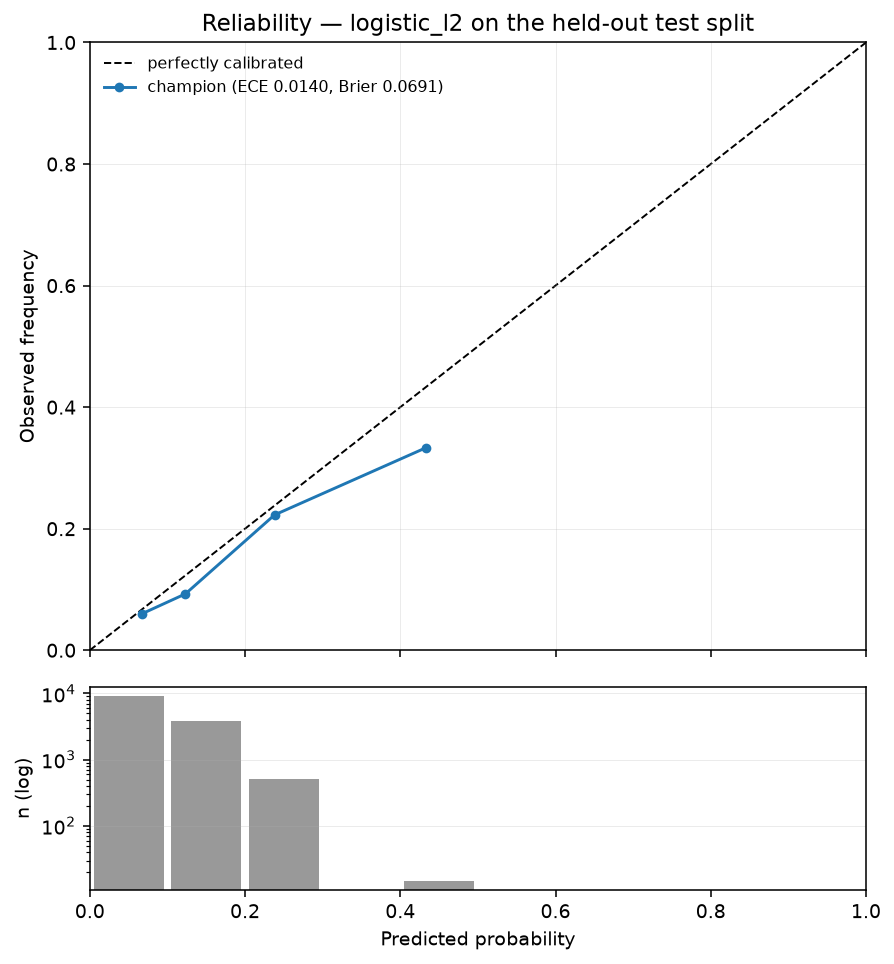
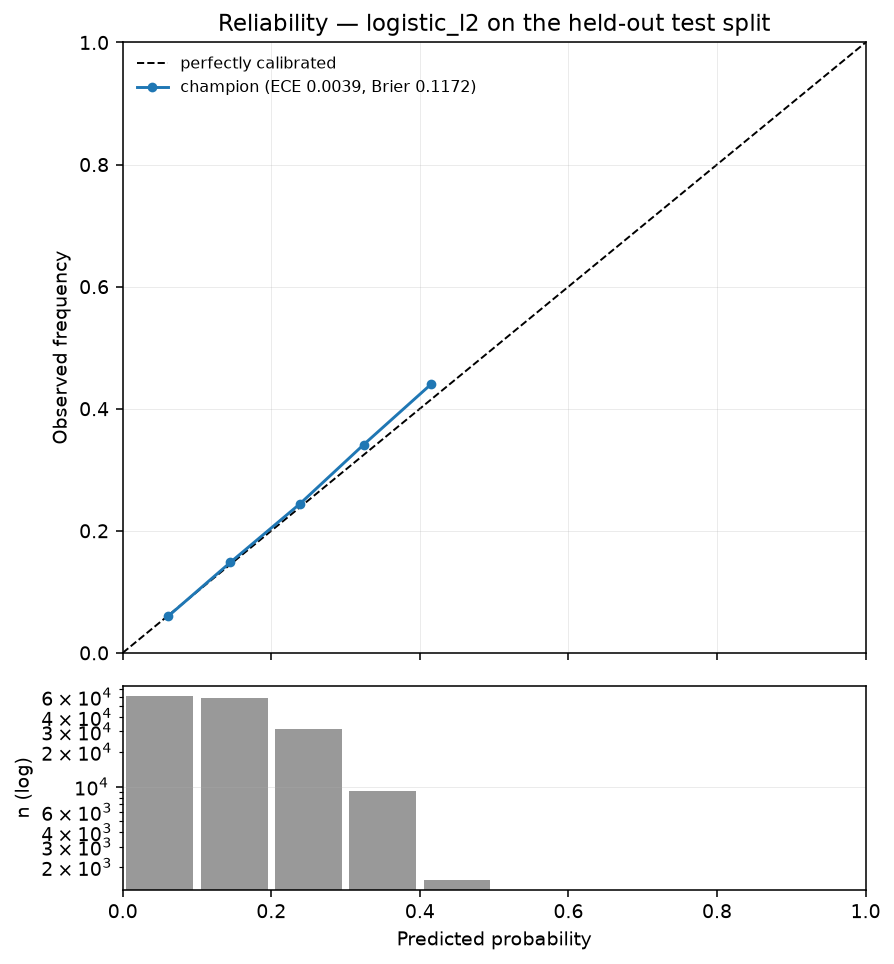
fix(models): every artifact was stamped with the PREVIOUS run's contract
Caught by running the deployment chain end to end rather than trusting it. The
container pulled the credit model from Hugging Face, reported itself ready,
and served decision_threshold 0.10106382978723404 with feature schema
06f5f0b873ca95f6 - the MEDICAL values, against a credit model tuned to 0.207.

Root cause, and it is an ordering bug with a long fuse:

  train.py:321   registry.save_local_fallback(champion_model)
                   -> write_artifact_metadata() READS reports/training_summary.json
  train.py:389   training_summary.json is WRITTEN

The artifact's contract was copied from the summary of the PREVIOUS training
run, because this run's summary does not exist yet. Every retrain would have
shipped a model carrying its predecessor's operating point, and nothing would
have complained.

It only became visible because the domain changed and the stale numbers were
obviously from another problem. Had the domains matched, the threshold would
merely have been slightly wrong - a model served at last month's operating
point - and invisible. This is the sixth instance of this bug class in this
project and the first that could not be seen by reading the output.

Fixed structurally rather than by reordering two lines, which a later refactor
could silently undo: save_local_fallback now takes the contract as an
argument, handed over by the caller that just trained the model. Reading the
file survives only as a fallback for callers with nothing to hand, and it
[…]

diff --git a/src/mlservice/models/registry.py b/src/mlservice/models/registry.py
@@ -191,7 +191,9 @@ def current_version(name: str, alias: str) -> str | None:
         return None
 
 
-def save_local_fallback(pipeline: Any, path: Path | None = None) -> Path:
+def save_local_fallback(
+    pipeline: Any, path: Path | None = None, contract: dict[str, Any] | None = None
+) -> Path:
     """Persist the champion beside the code as the API's fallback artifact.
 
     Gitignored. Baked into the serving image at build time so the API can start
@@ -205,13 +207,13 @@ def save_local_fallback(pipeline: Any, path: Path | None = None) -> Path:
     target.parent.mkdir(parents=True, exist_ok=True)
     joblib.dump(pipeline, target)
 
-    write_artifact_metadata(target.parent)
+    write_artifact_metadata(target.parent, contract)
 
     log.info("local_fallback_saved", path=str(target), size_kb=round(target.stat().st_size / 1e3))
     return target
 
 
-def write_artifact_metadata(directory: Path) -> Path | None:
+def write_artifact_metadata(directory: Path, contract: dict[str, Any] | None = None) -> Path | None:
     """Write the serving contract beside the artifact.
 
     **An artifact must carry its own contract.** The decision threshold is a
@@ -219,33 +221,45 @@ def write_artifact_metadata(directory: Path) -> Path | None:
     a model with someone else's threshold produces a service that is
     confidently wrong.
 
-    It used to live only in ``reports/training_summary.json``, which does not
-    travel with the model. The container mounts ``models/`` and nothing else,
-    so the API silently fell back to the config placeholder of 0.5 against a
-    model tuned to 0.1011, and flagged nobody while reporting itself healthy.
+    ``contract`` is passed in by the caller that just trained the model. It used
+    to be *read* from ``reports/training_summary.json`` instead, and that was a
+    real bug with a long fuse: ``save_local_fallback`` runs before the summary
+    for the current run is written, so the artifact was stamped with the
+    PREVIOUS run's threshold. Every retrain would have shipped a model carrying
+    its predecessor's operating point, and nothing would have complained.
 
-    Copying the two fields that constitute the contract next to the binary
-    means the threshold goes wherever the model goes — a mount, an HF download,
-    a Kubernetes volume.
+    It surfaced when the domain changed and the stale values were visibly from
+    another problem entirely (0.1011 against a model tuned to 0.207). Had the
+    domains matched, the numbers would merely have been slightly wrong — and
+    invisible.
+
+    Reading the file is kept only as a fallback for callers that have no
+    contract to hand, and it warns when it does so.
     """
     import json
 
-    summary_path = get_settings().paths.reports / "training_summary.json"
-    if not summary_path.is_file():
+    if contract is None:
+        summary_path = get_settings().paths.reports / "training_summary.json"
+        if not summary_path.is_file():
+            log.warning(
+                "artifact_metadata_not_written",
+                reason="no contract passed and no training summary to fall back on",
+                consequence="the served threshold will fall back to config",
+            )
+            return None
         log.warning(
-            "artifact_metadata_not_written",
-            reason="no training summary to copy from",
-            consequence="the served threshold will fall back to config",
+            "artifact_metadata_from_file",
+            reason="no contract passed; reading the last training summary",
+            hazard="that summary may describe a DIFFERENT run than this artifact",
         )
-        return None
+        contract = json.loads(summary_path.read_text(encoding="utf-8"))
 
-    summary = json.loads(summary_path.read_text(encoding="utf-8"))
     metadata = {
-        "champion": summary.get("champion"),
-        "champion_threshold": summary.get("champion_threshold"),
-        "feature_schema_hash": summary.get("feature_schema_hash"),
-        "calibration_method": summary.get("calibration_method"),
-        "registered_version": summary.get("registered_version"),
+        "champion": contract.get("champion"),
+        "champion_threshold": contract.get("champion_threshold"),
+        "feature_schema_hash": contract.get("feature_schema_hash"),
+        "calibration_method": contract.get("calibration_method"),
+        "registered_version": contract.get("registered_version"),
         "written_by": "mlservice.models.registry.write_artifact_metadata",
     }
 

diff --git a/tests/unit/test_serving_contract.py b/tests/unit/test_serving_contract.py
@@ -161,3 +161,69 @@ class TestRegistryWritesTheSidecar:
 
         env(MLSERVICE_PATHS__REPORTS=str(tmp_path / "empty"))
         assert registry.write_artifact_metadata(tmp_path / "champion") is None
+
+
+class TestTheContractComesFromThisRun:
+    """Regression tests for a bug with a long fuse.
+
+    ``save_local_fallback`` used to write the artifact's contract by *reading*
+    ``reports/training_summary.json`` — but it runs before the summary for the
+    current run is written, so it stamped every artifact with the PREVIOUS
+    run's threshold.
+
+    Every retrain would have shipped a model carrying its predecessor's
+    operating point, silently. It only became visible when the domain changed
+    and the stale values were obviously from another problem (0.1011 against a
+    model tuned to 0.207). Had the domains matched, the numbers would merely
+    have been slightly wrong — and invisible.
+    """
+
+    def test_the_passed_contract_wins_over_any_file(self, tmp_path: Path, env: Any) -> None:
+        from mlservice.models import registry
+
+        reports = tmp_path / "reports"
+        reports.mkdir()
+        # A stale summary from a previous, different run.
+        (reports / "training_summary.json").write_text(
+            json.dumps(
+                {"champion": "old", "champion_threshold": 0.9999, "feature_schema_hash": "stale"}
+            ),
+            encoding="utf-8",
+        )
+        env(MLSERVICE_PATHS__REPORTS=str(reports))
+
+        out = registry.write_artifact_metadata(
+            tmp_path / "champion",
+            contract={
+                "champion": "new",
+                "champion_threshold": TRAINED_THRESHOLD,
+                "feature_schema_hash": SCHEMA_HASH,
+            },
+        )
+        assert out is not None
+        written = json.loads(out.read_text(encoding="utf-8"))
+        assert written["champion_threshold"] == pytest.approx(TRAINED_THRESHOLD)
+        assert written["feature_schema_hash"] == SCHEMA_HASH
+        assert written["champion"] == "new"
+
+    def test_the_shipped_artifact_matches_the_shipped_summary(self) -> None:
+        """The end-to-end invariant, checked against the real files.
+
+        If these two ever disagree, the deployed model is being served with
+        another run's operating point — which is the failure this project has
+        now hit six times in six different places.
+        """
+        root = Path(__file__).resolve().parents[2]
+        meta_path = root / "models" / "champion" / "metadata.json"
+        summary_path = root / "reports" / "training_summary.json"
+        if not (meta_path.is_file() and summary_path.is_file()):
+            pytest.skip("no trained artifact — run `uv run mlservice train run`")
+
+        meta = json.loads(meta_path.read_text(encoding="utf-8"))
+        summary = json.loads(summary_path.read_text(encoding="utf-8"))
+
+        assert meta["champion_threshold"] == pytest.approx(summary["champion_threshold"]), (
+            "the artifact's threshold does not match the training summary — "
+            "the artifact was stamped from a different run"
+        )
+        assert meta["feature_schema_hash"] == summary["feature_schema_hash"]

diff --git a/src/mlservice/models/train.py b/src/mlservice/models/train.py
@@ -318,7 +318,18 @@ def run_training(register_model: bool = True) -> dict[str, Any]:
         title=f"Reliability — {champion.name} on the held-out test split",
     )
 
-    fallback = registry.save_local_fallback(champion_model)
+    # The contract is handed over explicitly. Reading it from
+    # reports/training_summary.json here would read the PREVIOUS run's file,
+    # because this run's summary is not written until the end of this function.
+    fallback = registry.save_local_fallback(
+        champion_model,
+        contract={
+            "champion": champion.name,
+            "champion_threshold": champion.threshold,
+            "feature_schema_hash": schema_hash,
+            "calibration_method": champion.calibration_method,
+        },
+    )
 
     version = None
     if register_model:
